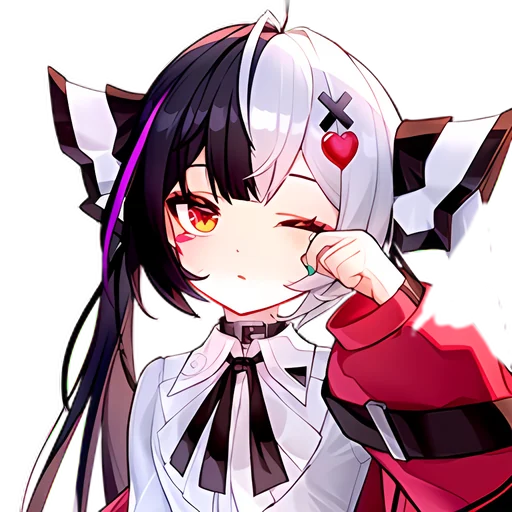
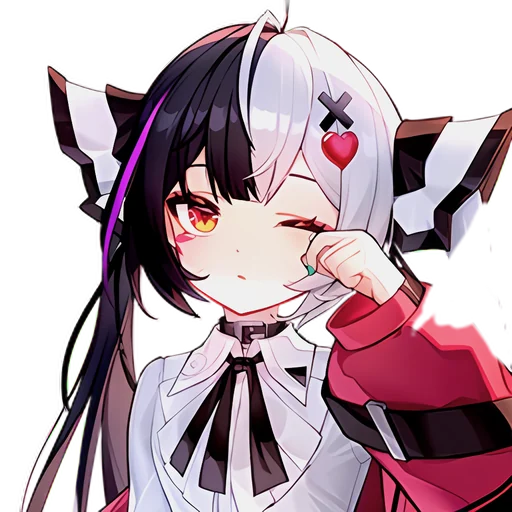
Tone down Nanally's and Lacrimosa's portraits
Claude-Session: https://claude.ai/code/session_01THnzwembB6ikRgs4A7xnwB

diff --git a/NOTICE.md b/NOTICE.md
@@ -23,7 +23,7 @@ Character names, elements, roles, ranks and reaction rules are factual informati
 
 Any official artwork included in this repository is used only where the publisher has released it for free public or fan use, and only within the publisher's terms. It will be removed on request.
 
-The `hd/` versions of character and Arc images are 2× copies of the same official art, upscaled with Real-ESRGAN (anime model) so exported cards stay sharp. Mint's portrait is slightly toned down to match the others. No content has been added or changed beyond resizing and tone.
+The `hd/` versions of character and Arc images are 2× copies of the same official art, upscaled with Real-ESRGAN (anime model) so exported cards stay sharp. Mint's, Nanally's and Lacrimosa's portraits are slightly toned down to match the others. No content has been added or changed beyond resizing and tone.
 
 ## Third-party software
 
